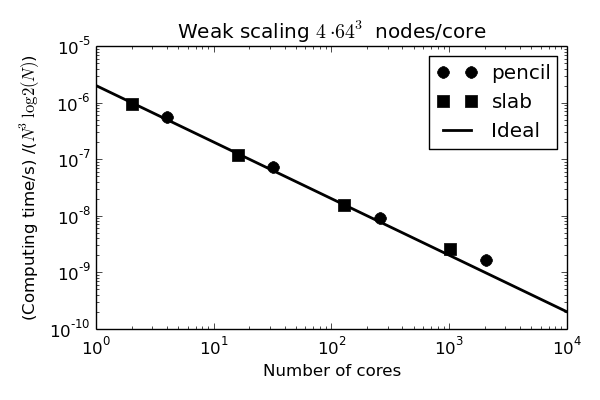
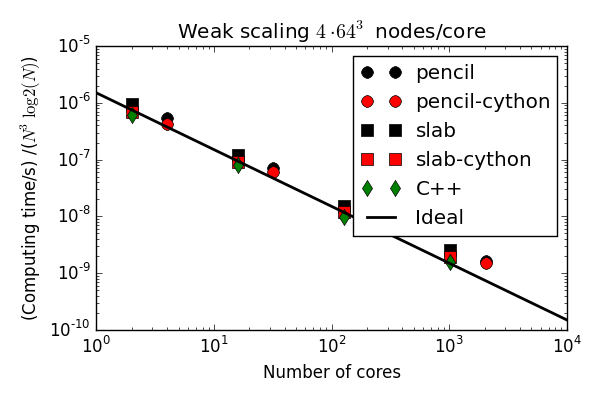
Preparing for submission

diff --git a/PythonDNSproject.tex b/PythonDNSproject.tex
@@ -40,6 +40,24 @@ numbers=none,
 aboveskip=1ex,
 belowskip=1ex,
 basicstyle=\ttfamily\footnotesize,
+breaklines=true,
+breakatwhitespace= true,
+xleftmargin=\framemargin,
+xrightmargin=\framemargin,
+aboveskip=1ex,
+belowskip=1ex,
+frame=trbl, %trbl
+numbers=none,
+%frameround=tttt,
+rulecolor=\color{black!40},
+%framexleftmargin=\framemargin,
+%framextopmargin=.1ex,
+%framexbottommargin=.1ex,
+%framexrightmargin=\framemargin,
+%framexleftmargin=1mm, framextopmargin=1mm, frame=shadowbox, rulesepcolor=\color{blue},#1
+%frame=tb,
+%backgroundcolor=\color{yellow!10}
+backgroundcolor=\color{white},
 }
 
 \lstdefinestyle{pythonstyle}{
@@ -142,7 +160,7 @@ float=!htpb]{#2}}
 \newcommand{\hpl}[1]{({\bf hpl comment:} \emph{#1})}
 \bibliographystyle{plain}
 
-\title{High performance Python simulations of turbulent flows}
+\title{High Performance Python for direct numerical simulations of turbulent flows}
 \author{Mikael Mortensen\thanks{Department of Mathematics, University of Oslo, and Center for Biomedical Computing, Simula Research Laboratory. Email: \texttt{mikael.mortensen@gmail.com}.} and Hans Petter Langtangen\thanks{Center for Biomedical Computing, Simula Research Laboratory, and Department of Informatics, University of Oslo. Email: \texttt{hpl@simula.no}.}}
 %\date{}							% Activate to display a given date or no date
 
@@ -156,9 +174,9 @@ available research codes and, due to the heavy number crunching implied,
 available codes are usually written in low-level
 languages such as C or Fortran.
 In this paper we describe a pure Python pseudo-spectral DNS code
-that nearly matches the performance of pure C for thousands of processors
+that nearly matches the performance of C++ for thousands of processors
 and billions of unknowns. We also describe an optimized version, using
-Cython, that is found to match the speed of C without ever needing to leave
+Cython, that is found to match the speed of C++ without ever needing to leave
 the confortable interactive Python environment. The solver is written from
 scratch in Python, both the mesh, the MPI domain decomposition, and the
 temporal integrators. The solver
@@ -166,7 +184,7 @@ has been verified and benchmarked on the Shaheen supercomputer at the
 KAUST supercomputing laboratory,
 and we are able to show very good scaling up to several thousand cores.
 
-A very important part of the implementation is the mesh decomposition (we have used both slab and pencil) and 3D parallel Fast Fourier Transforms (FFT). The mesh decomposition and FFT routines have been implemented in Python using serial FFT routines (either \inpyth{numpy} or \inpyth{pyfftw}), \inpyth{numpy} array manipulations and with MPI communications handled by \inpyth{mpi4py}. We show how we can write a 3D parallel FFT routine in Python for a slab mesh decomposition in 4 lines of compact Python code, for which the parallel performance on Shaheen is found to be slightly better than similar routines provided through the FFTW library. For a pencil mesh decomposition 7 lines of code is required to actually perform the transformation.
+A very important part of the implementation is the mesh decomposition (we implement both slab and pencil decompositions) and 3D parallel Fast Fourier Transforms (FFT). The mesh decomposition and FFT routines have been implemented in Python using serial FFT routines (either \inpyth{numpy} or \inpyth{pyfftw}), \inpyth{numpy} array manipulations and with MPI communications handled by \inpyth{mpi4py}. We show how we can execute a 3D parallel FFT in Python for a slab mesh decomposition using 4 lines of compact Python code, for which the parallel performance on Shaheen is found to be slightly better than similar routines provided through the FFTW library. For a pencil mesh decomposition 7 lines of code is required to execute a transformation.
 
 \section{Introduction}
 %\subsection{}
@@ -188,15 +206,15 @@ of freedom. Normally, this demands a need for developing tailored, hand-tuned
 codes in what we here call low-level languages: Fortran, C or C++ (despite
 the possibility for creating high-level abstractions in Fortran 90/2003 and
 C++, the extreme performance demands of DNS codes naturally leads to
-minimalistic use of classes and modules).. Few
+minimalistic use of classes and modules). Few
 DNS codes are openly available and easily accessible to the public and
 the common fluid mechanics researcher. Some exceptions are hit-3d
 (Fortran90) \cite{hit-3d}, Philofluid (Fortran) \cite{philofluid},
 Tarang (C++) \cite{tarang}, and Turbo (Fortran90)
-\cite{turbo}. However, the user interfaces to these codes are not sopthisticated and user-friendly,
+\cite{turbo}. However, the user interfaces to these codes are not sophisticated and user-friendly,
 and it is both challenging and time consuming for a user to
 modify or extend the codes to satisfy their own needs. This is usually
-the nature of codes in low-level languages.
+the nature of codes written in low-level languages.
 
 It is a clear trend in computational sciences over the last two decades
 that researchers tend to move from low-level languages to high-level languages
@@ -225,7 +243,7 @@ finite element framework FEniCS \cite{fenics} is written mainly in
 C++, but most application developers are writing FEniCS-based solvers
 directly in Python, never actually finding themselves in need of
 writing longer C++ code and firing up a compiler. For large scale
-applications the devloped Python solvers are usually equally fast as
+applications the developed Python solvers are usually equally fast as
 their C++ counterparts, because most of the computing time is usually
 spent within the low-level wrapped C++ functions that perform the
 costly linear algebra operations \cite{Mortensen2015}.
@@ -286,7 +304,7 @@ where the indices on $\mathcal{F}$ and $\mathcal{F}^{-1}$ within the square brac
 %\end{align}
 %Here $\imath=\sqrt{-1}$ is used to represent the imaginary unit.
 
-The spectral Galerkin  method involves taking the inner product of the Navier-Stokes equations with the complex conjugate of the basis functions, i.e., $e^{-\imath \bm{k} \cdot \bm{x}}$, which corresponds to performing a three-dimensional Fourier transform of the Navier-Stokes equations. If we also evaluate the analytical spatial derivatives in spectral space, we obtain a system of ordinary differential equation for $\hat{\bm{u}}_{\bm{k}}$, whereas the continuity equation reduces to an orthogonal inner product. All in all we obtain
+The spectral Galerkin method involves taking the inner product of the Navier-Stokes equations with the basis functions, $e^{\imath \bm{k} \cdot \bm{x}}$, which corresponds to performing a three-dimensional Fourier transform of the Navier-Stokes equations. If we also evaluate the analytical spatial derivatives in spectral space, we obtain a system of ordinary differential equation for $\hat{\bm{u}}_{\bm{k}}$, whereas the continuity equation reduces to an orthogonal inner product. All in all we obtain
 \begin{align}
  \frac{d\hat{\bm{u}}_{\bm{k}}}{d t} - \widehat{( \bm{u} \times \bm{\omega})}_{\bm{k}} &= - \nu |\bm{k}|^2  \hat{\bm{u}}_{\bm{k}} - \imath \bm{k} \hat{P}_{\bm{k}}, \label{eq:NSf} \\
  \imath \bm{k} \cdot \hat{\bm{u}}_{\bm{k}} &= 0.
@@ -459,7 +477,7 @@ while t <= T:
         U[i] = ifftn_mpi(U_hat[i], U[i])
 
 \end{python}
-Obviously, more advanced and accurate integrators may be easily added by modifying the final \inpyth{while} loop. See the Appendix [\ref{sec:appendix}] for a fourth order Runge Kutta implementation.
+Obviously, more advanced and accurate integrators may be easily added by modifying the final \inpyth{while} loop. See the Appendix for a fourth order Runge Kutta implementation.
 
 The \inpyth{dealias} matrix multiplying \inpyth{dU} in the above
 loop deserves a comment.
@@ -487,7 +505,7 @@ K = array(meshgrid(kx, ky[rank*Np:(rank+1)*Np], kz,
 \end{python}
 In general, using \inpyth{num_processes} CPUs, each CPU gets responsibility for \inpyth{Np = N/num_processes} two-dimensional slices and the physical mesh is simply decomposed along the first index. The wavenumber mesh, on the other hand, is split along the second index. The reason for this choice is that the $k_x$ direction is the last direction to be transformed by the three consecutive FFTs and for this operation the data structures will need to be aligned in planes normal to the $k_y$ direction. This becomes obvious if one considers the MPI decomposition as illustrated in Figure~\ref{fig:Slabdecomp} for the case of a physical mesh of size $8^3$ divided amongst 4 CPUs.
 
-The entire 3D parallel FFT may be implemented with preallocation of a work array to do MPI and 4 lines of Python code:
+The entire 3D parallel FFT may be implemented with preallocation of a work array to do MPI and 4 lines (the body of \inpyth{fftn_mpi/ifftn_mpi}) of Python code:
 
 \begin{python}
 # Preallocated work array for MPI
@@ -652,9 +670,10 @@ def fftn_mpi(u, fu):
 \end{python}
 
 \subsection{Optimization}
-The implementation discussed thus far is using no more than \texttt{numpy} and \texttt{mpi4py}, and possibly \texttt{pyfftw} for faster FFTs. The FFTs represent the major computational cost of the solver, but there is also significant cost in all the elementwise operations on the structured \texttt{numpy} arrays required to build the right hand side of the Navier-Stokes equations, see the \inpyth{ComputeRHS} function. The elementwise operations, like multiply and divide, are handled by \texttt{numpy}'s universal functions (ufuncs), which are fast because they are implemented in C. However, some of the ufuncs may be inefficient due to temporary arrays that need to be created, especially for multiple-operator expressions. The most glaring example for the current solver is the cross product (used in computing convection, see Eq. (\ref{eq:curl_convection})), which is computed most straightforward though \texttt{numpy} as
+\label{sec:optimization}
+The implementation discussed thus far is using no more than \texttt{numpy} and \texttt{mpi4py}, and possibly \texttt{pyfftw} for faster FFTs. The FFTs represent the major computational cost of the solver, but there is also significant cost in all the elementwise operations on the structured \texttt{numpy} arrays required to build the right hand side of the Navier-Stokes equations, see the \inpyth{ComputeRHS} function. The elementwise operations, like multiply and divide, are handled by \texttt{numpy}'s universal functions (ufuncs), that are fast because they are implemented in C. However, some of the ufuncs may be inefficient due to temporary arrays that need to be created, especially for multiple-operator expressions. The most glaring example for the current solver is the cross product (used in computing convection, see Eq. (\ref{eq:curl_convection})), which is computed most straightforward though \texttt{numpy} as
 \begin{python}
-def cross1(a, b, c):
+def cross(a, b, c):
     """c = a x b"""
     #c = numpy.cross(a, b, axis=0)   # Alternative numpy cross product
     c[0] = a[1]*b[2]-a[2]*b[1]
@@ -662,7 +681,7 @@ def cross1(a, b, c):
     c[2] = a[0]*b[1]-a[1]*b[0]
     return c
 \end{python}
-Note that we have commented out the use of \texttt{numpy}'s \inpyth{cross} function, which is implemented under the hood using ufuncs and runs at approximately the same computational speed as the alternative shown. The term \inpyth{a[1]*b[2]-a[2]*b[1]} requires two elementwise multiplications and one elementwise subtraction. This is implemented by \texttt{numpy} using three separate ufuncs (two \inpyth{multiply}, one \inpyth{subtract}), each with temporary arrays allocated. For the three items in the \inpyth{c} vector, this means that 9 ufuncs are called and the loop over all $N^3$ indices in the mesh is performed 9 times, which, needless to say, is very inefficient.
+Note that we have commented out the use of \texttt{numpy}'s \inpyth{cross} function, which is implemented under the hood using ufuncs and runs at approximately the same computational speed as the alternative shown. The term \inpyth{a[1]*b[2]-a[2]*b[1]} requires two elementwise multiplications and one elementwise subtraction. This is implemented by \texttt{numpy} using three separate ufuncs (two \inpyth{multiply}, one \inpyth{subtract}), each with temporary arrays allocated. For the three items in the \inpyth{c} vector, this means that 9 ufuncs are called and the loop over all $N^3$ indices in the mesh is performed 9 times, which, needless to say, is very inefficient even though it is vectorized.
 
 For straightforward comparison, the Python solver with slab decomposition has been used as prototype for a
 \href{https://github.com/mikaem/spectralDNS/blob/master/cpp/spectralDNS.cpp}{pure C++ implementation}\footnote{\texttt{https://github.com/mikaem/spectralDNS/blob/master/cpp/spectralDNS.cpp}}. The
@@ -676,7 +695,7 @@ from numba import jit, int64, int32, uint8
 from numba import float64 as float, complex128 as complex
 
 @jit(float[:,:,:,:](float[:,:,:,:], float[:,:,:,:], float[:,:,:,:]))
-def cross1(a, b, c):
+def cross(a, b, c):
     for i in xrange(a.shape[1]):
         for j in xrange(a.shape[2]):
             for k in xrange(a.shape[3]):
@@ -693,7 +712,7 @@ def cross1(a, b, c):
 \end{python}
 The \texttt{numba} cross product may now be used directly in place of the pure Python version with no further modifications.
 
-Cython has gained much momentum in recent years and is usually the obvious choice for high performance computing. Using Cython, the cross product should be implemented like \inpyth{numba}, through explicit for loops, which are translated to efficient C code that can be highly optimized by the compiler. A module called \inpyth{cython_module.pyx} may be created and compiled using Python's standard installation utilities (\href{http://docs.cython.org /src/reference/compilation.html}{distutils}\footnote{\texttt{http://docs.cython.org /src/reference/compilation.html}}).
+Cython has gained much momentum in recent years and is usually the obvious choice for high performance computing. Using Cython, the cross product should be implemented like for \inpyth{numba}, through explicit for loops which are translated to efficient C code to be highly optimized by the compiler. A module called \inpyth{cython_module.pyx} may be created and compiled using Python's standard installation utilities (\href{http://docs.cython.org /src/reference/compilation.html}{distutils}\footnote{\texttt{http://docs.cython.org /src/reference/compilation.html}}):
 
 \begin{python}
 cython_module.pyx:
@@ -703,7 +722,7 @@ cimport numpy as np
 
 ctypedef np.float64_t real_t
 
-def cross1(np.ndarray[real_t, ndim=4] a,
+def cross(np.ndarray[real_t, ndim=4] a,
            np.ndarray[real_t, ndim=4] b,
            np.ndarray[real_t, ndim=4] c):
     cdef unsigned int i, j, k
@@ -722,7 +741,7 @@ def cross1(np.ndarray[real_t, ndim=4] a,
                 c[2,i,j,k] = a0*b1 - a1*b0
 
 \end{python}
-Cython generated modules may be imported into Python and the \inpyth{cross1} function from Cython may be used directly in place of the pure Python version.
+Cython generated modules may be imported into Python and the \inpyth{cross} function from Cython may be used directly in place of the pure Python version.
 
 The Cython code for the cross product runs at about the same speed as \inpyth{numba} and approximately 3 times faster than pure \texttt{numpy} for a mesh of size $128^3$. When Cython is used to compute all elementwise operations that generate the right hand side of the Navier-Stokes equations, the Taylor Green test case runs at (0.0090, 0.080, 0.82) seconds per time step.\footnote{Best of 10 runs} In other words, with a few quick Cython wrappers we have a Python solver that is comparable in speed to its low-level counterpart in C++. And this solver is scripted and operated in a comfortable interactive environment where postprocessing and plotting may be performed from a commandline shell.
 
@@ -739,7 +758,7 @@ A better solution is provided through the Scalable Python implementation \cite{s
 
 \subsection{Verification}
 \label{sec:verification}
-To verify the implementation of our Python based DNS solver we run the Taylor Green test case for a Reynolds number of 1600. This is a well known test case used, e.g., by the annual Workshop on High-Order CFD Methods, that provides temporal evolution of reference data\footnote{https://www.grc.nasa.gov/wp-content/uploads/sites/22/ C3.3$\_$datafiles.zip} for kinetic energy, energy dissipation and vorticity integrated over the computational domain. The Taylor Green test case at Re=1600 starts out as laminar with only one single length scale, and then through a series of complex flow patterns a fully developed, decaying, turbulent flow is obtained. The Taylor Green vortex is initialized as
+To verify the implementation of our Python based DNS solver we run the Taylor Green test case for a Reynolds number of 1600. This is a well known test case used, e.g., by the annual Workshop on High-Order CFD Methods, which provides temporal evolution of reference data\footnote{https://www.grc.nasa.gov/wp-content/uploads/sites/22/ C3.3$\_$datafiles.zip} for kinetic energy, energy dissipation and vorticity integrated over the computational domain. The Taylor Green test case at Re=1600 starts out as laminar with only one single length scale, and then through a series of complex flow patterns a fully developed, decaying, turbulent flow is obtained. The Taylor Green vortex is initialized as
 \begin{python}
 nu = 1./1600
 dt = 0.001
@@ -749,12 +768,15 @@ U[2] = 0
 for i in range(3):
     U_hat[i] = fftn_mpi(U[i], U_hat[i])
 \end{python}
-where the same code is used for both the slab and the pencil decomposition. The Reynolds number is fixed at 1600 by setting the viscosity coefficient to 1./1600 and the time step is fixed at 0.001. We use a real mesh of size $N=512$, since that matches the reference data. A resolution of $512^3$ is reported by by Bratchet \cite{brachet1991direct} to represent a fully resolved DNS of this flow.
+where the same code is used for both the slab and the pencil decomposition. The Reynolds number is fixed at 1600 by setting the viscosity coefficient to 1/1600 and the time step is fixed at 0.001. We use a real mesh of size $N=512$, since that matches the reference data. A resolution of $512^3$ is reported by by Bratchet \cite{brachet1991direct} to represent a fully resolved DNS of this flow.
 
 The non-optimized code is run on Shaheen using the pencil decomposition and 2048 cores. The entire simulation is set for 20 seconds real time, during which the flow undergoes transition, decays and finally fades out. The simulation takes 12 hours alltogether ($12\cdot2048$ CPU hours) and neither the kinetic energy nor the vorticity stray more than 0.01 \% from the reference solutions, even after 20,000 time steps.
 
 \subsection{Parallel scaling}
-The only MPI communication required by the solver can be found in the 3D
+In this section we will investigate parallel scaling and performance of the solver described in previous sections. We compare our Python solvers to the C++ solver described briefly in Sec \ref{sec:optimization} and note that the C++ solver is using the same compiled FFTW library as the Python code. However, it is also important to note that the Python code only makes use of the serial versions of the FFTW routines and performs the MPI communications itself through
+\inpyth{mpi4py}, whereas the C++ code uses the built in MPI communication routines that come with the FFTW library.
+
+The only MPI communication required by the current solver can be found in the 3D
 FFT routines, or when global results, like the total kinetic energy, are
 computed. Scaling will be efficient as long as the cost for MPI
 communication is smaller than all the other elementwise operations required
@@ -762,7 +784,7 @@ to set up the right hand side of the explicit ODE given by Eq.
 (\ref{eq:NSfinal}). This is not a trivial task, considering that a pseudo-spectral solver demands that every process needs to send and receive data
 from all the other processes - at least for the slab decomposition.
 
-It is customary for pseudospectral solvers to assume that the main computational cost is due to Fourier transforms, and as such the CPU time should ideally scale like
+It is customary for pseudo-spectral solvers to assume that the main computational cost is due to Fourier transforms, and as such the CPU time should ideally scale like
 
 \begin{equation}
  \frac{N^3 \log_2 N}{M},
@@ -770,63 +792,113 @@ It is customary for pseudospectral solvers to assume that the main computational
 where $M$ is the number of CPUs. In other words, strong scaling implies, as usual, CPU time per time step proportional to $1/M$, whereas weak scaling, where $N^3/M$ is kept constant, should ideally show CPU times proportional to $\log_2 N$. A more thorough analysis of scalability factors for a 3D FFT using the pencil domain decomposition has been given by Ayala and Wang \cite{ayala2013}.
 
 
-
 \subsubsection{Weak scaling}
-To verify weak scaling we continue to use the Taylor Green test case and keep the ratio of mesh size to number of processors ($N^3/M$) constant, which ideally should lead to CPU times proportional to $\log_2 N$. The solver used in this section is not optimized in any way beyond \texttt{numpy/mpi4py/pyfftw}.
-Both slab and pencil decompositions are tested using four meshes of size $N^3$, where $N=(2^7, 2^8, 2^9, 2^{10}) =(128, 256, 512, 1024)$ and single precision arithmetics (which is also customary for scaling tests of DNS solvers). For these meshes the slab decomposition uses $M=(2, 16, 128, 1024)$ number of CPUs and the pencil uses twice as many $M=(4, 32, 256, 2048)$ with $P1=(2, 4, 16, 32)$.
+Since MPI communications are primarily required by the FFTs, we first run a weak scaling test of the pure foreward and inverse FFTs before proceeding to the complete solver. To this end we keep the ratio of mesh size to number of processors ($N^3/M$) constant, which ideally should lead to CPU times proportional to $\log_2 N$. Both slab and pencil decompositions are tested using four meshes of size $N^3$, where $N=(2^7, 2^8, 2^9, 2^{10}) =(128, 256, 512, 1024)$ and single precision arithmetics (which is also customary for scaling tests of DNS solvers). For these meshes the slab decomposition uses $M=(2, 16, 128, 1024)$ number of CPUs and the pencil uses twice as many $M=(4, 32, 256, 2048)$ with $P1=(2, 4, 16, 32)$.
 Note that for $N=1024$ the maximum number of CPUs is reached for the slab decomposition, whereas the pencil
-decomposition may still use many more. The real computing time per time step is measured and the results
-are scaled by $N^3 \log_2N$ and plotted in Figure \ref{fig:Weak_scaling} alongside the C++ implementation. Figure \ref{fig:weak_scaling_shaheen} and \ref{fig:weak_scaling_shaheen_opt} shows, respectively, the weak scaling results for the non-optimized pure Python solver and the solver optimized through Cython. From Figure \ref{fig:weak_scaling_shaheen} it is evident that both slab and pencil versions of the Python solver show excellent scaling,
-and only start to trail slightly off the ideal curve for the largest mesh sizes. The C++ solver is seen to be about $10-20 \%$ faster than the pure
-Python solver for the current range, and evidently the difference diminishes with increasing number of cores. In other words, the MPI implementation of 3D FFT for the pure Python solver scales better than the 3D FFT routines provided by FFTW.  Note that the pencil computations use twice as many cores for the same mesh size as the slab computations. As such the two methods would fall on the same line in
-Figure.~\ref{fig:weak_scaling_shaheen} if they were equally efficient. The slab decomposition is thus seen to be more efficient than pencil, which is generally in agreement with previous studies (see, e.g., \cite{pekurovsky2012}).
+decomposition may still use many more. The performance of the FFTs is compared to a C++ code using the same FFTW library with plans corresponding to the Python solver. A simplified setup that also shows how the code is executed is shown below:
 
-Figure \ref{fig:weak_scaling_shaheen_opt} shows the performance of the Python solvers optimized with Cython. Now there is apparently very little separating the C++ and the Python solvers, and the Python solver actually performs slightly better. Both the slab and pencil optimized implementations are seen to be approximately $20 \% $ faster than their pure Python counterparts.
+\begin{lstlisting}
+  typedef float precision;
+  int N = pow(static_cast<int>(2), 9);
+  ptrdiff_t alloc_local, local_n0, local_0_start, local_n1, local_1_start
+  fftwf_plan rfftn, irfftn;
+  
+  alloc_local = fftw_mpi_local_size_3d_transposed(N, N, N/2+1, 
+                         MPI::COMM_WORLD, &local_n0, &local_0_start,
+                         &local_n1, &local_1_start);
+                         
+  vector<precision> U(2*alloc_local);
+  vector<complex<precision> > U_hat(alloc_local);
+  
+  rfftn = fftwf_mpi_plan_dft_r2c_3d(N, N, N, U.data(), 
+                   reinterpret_cast<fftwf_complex*>(U_hat.data()), 
+                   MPI::COMM_WORLD, FFTW_MPI_TRANSPOSED_OUT);
+                   
+  irfftn = fftwf_mpi_plan_dft_c2r_3d(N, N, N, 
+                   reinterpret_cast<fftwf_complex*>(U_hat.data()),  
+                   U.data(), MPI::COMM_WORLD, FFTW_MPI_TRANSPOSED_IN);  
+                   
+  // Execute forward and inverse transforms
+  fftwf_mpi_execute_dft_r2c( rfftn, U.data(), 
+                reinterpret_cast<fftwf_complex*>(U_hat.data()));     
+  fftwf_mpi_execute_dft_c2r(irfftn, 
+                reinterpret_cast<fftwf_complex*>(U_hat.data()), U.data());
+                
+  // Scale the inverse FFT  
+  for (int k=0; k<U.size(); k++)
+     U[k] /= tot;
+
+\end{lstlisting}
+The FFTW library is using a slab mesh decomposition.
+
+%The slab decomposition is seen to be more efficient than pencil, which is generally in agreement with previous studies (see, e.g., \cite{pekurovsky2012}). We see also that the C++ version is faster than the corresponding Python routine (slab) by approximately 10 \% for the lowest number of processors (64). However, the strong scaling of the Python 4-liner slab (see \inpyth{fftn_mpi}) is better and the Python version is even faster by the time we reach the highest number of allowed processors for this case (512). The pencil transform achieves good, but not perfect, speedup all the way up to 4096 processors. The results for the pencil transforms depend on the parameter P1, set to determine how the two first indices of the computational mesh are distributed. We have used $P1 = (8, 16, 16, 32, 32, 64, 64)$ and not optimized further.
+
 
 \begin{figure}
-\subfigure[]{
-\includegraphics[scale=0.8]{figs/weak_scaling_shaheen_numpy_noopt.png}
+\centering
+\includegraphics[scale=0.6]{figs/weak_scaling_fft_1024.png}
+\caption{Weak scaling of forward and inverse FFTs. The Python results are for pure \texttt{numpy}, \texttt{mpi4py}, \texttt{pyfftw} and C++ is using slab decomposition with MPI communication performed through the FFTW library.}
+\label{fig:weak_FFT_scaling}
+\end{figure}
+
+The results are assembled as the fastest of 10 forward and inverse FFTs (only execution time, not the setup), and the results
+are scaled by $N^3 \log_2N$ and plotted in Figure \ref{fig:weak_FFT_scaling}. Both slab and pencil versions of the Python 3D FFTs show excellent scaling,
+and only start to trail off the ideal curve for the largest mesh size. The C++ solver can be seen to be about $10 \%$ faster than Python (slab) for the smallest number of processors (64), but evidently the difference diminishes with increasing number of cores. In other words, the Python 4-liners (see \inpyth{fftn_mpi/ifftn_mpi} in Appendix) that embody the complete execution of the 3D FFT with MPI scales better than the 3D FFT routines with MPI provided by FFTW.  
+
+From Figure \ref{fig:weak_FFT_scaling} we also observe that the slab decomposition is more efficient than pencil, which is generally in agreement with previous studies (see, e.g., \cite{pekurovsky2012}). Note that the pencil computations use twice as many cores for the same mesh size as the slab computations. As such the two methods would fall on the same line in Figure.~\ref{fig:weak_FFT_scaling} if they were equally efficient. 
+
+Turning now to the complete solver, we run the Taylor Green test case for 100 time steps on the same mesh as used for the weak scaling of the FFTs. Figure \ref{fig:Weak_scaling} shows the computing times for one such time step (the fastest) for both the pure Python solver \ref{fig:weak_scaling_shaheen} and the version optimized with Cython \ref{fig:weak_scaling_shaheen_opt}.
+The figures clearly show how the Cython optimization leads to a solver that performs as well as C++ for the entire range of processors. Both the slab and pencil optimized implementations are seen to be approximately $20 \% $ faster than their pure Python counterparts, but there is generally no difference in scaling performance. Like for the pure FFT test, the scaling performance of the Python solver is actually slightly better  than C++, and this leads to the optimized Python solver actually being the fastest for 1024 processors.
+
+\begin{figure}
+\subfigure[Pure Python solver (\texttt{numpy}, \texttt{mpi4py}, \texttt{pyfftw})]{
+\includegraphics[scale=0.48]{figs/weak_scaling_shaheen_numpy_noopt.png}
 \label{fig:weak_scaling_shaheen}
 }
-\subfigure[]{
-\includegraphics[scale=0.8]{figs/weak_scaling_shaheen_numpy_opt.png}
+\subfigure[Python solver optimized with Cython]{
+\includegraphics[scale=0.48]{figs/weak_scaling_shaheen_numpy_opt.png}
 \label{fig:weak_scaling_shaheen_opt}
 }
-\caption{Weak scaling of DNS solver. The slab (squares) decomposition used $4 \cdot 64^3$ nodes per core, whereas the pencil decomposition (dots) used $2 \cdot 64^3 $. The C++ solver uses slab decomposition with MPI communication performed through the FFTW library. The Python solver in \subref{fig:weak_scaling_shaheen} is not optimized, whereas the solver in \subref{fig:weak_scaling_shaheen_opt} has been optimized through Cython.}
+\caption{Weak scaling of DNS solver. The slab decompositions are using $4 \cdot 64^3$ nodes per core, whereas the pencil decomposition uses $2 \cdot 64^3 $. The C++ solver uses slab decomposition with MPI communication performed through the FFTW library. The C++ results are the same in \subref{fig:weak_scaling_shaheen} and \subref{fig:weak_scaling_shaheen_opt}.}
 \label{fig:Weak_scaling}
 \end{figure}
 
 \subsubsection{Strong scaling}
 \label{sec:strong_scaling}
+
+\begin{figure}
+\centering
+\includegraphics[scale=0.6]{figs/strong_scaling_fft_512.png}
+\caption{Strong scaling of forward and inverse FFTs. The Python results are for pure \texttt{numpy}, \texttt{mpi4py}, \texttt{pyfftw} and C++ is using slab decomposition with MPI communication performed through the FFTW library.}
+\label{fig:strong_FFT_scaling}
+\end{figure}
+
 Strong scaling over a wide range of processors is usually more challenging
 to prove than weak, in our case partly because the efficiency of the FFT routines
 depends on the length of the datastructures and how well they fit into
-memory. Nevertheless, we have performed strong scaling tests of our pure Python and optimized
-Python/Cython code for the Taylor Green test case with a computational box of size $512^3$. In Figure
-\ref{fig:Strong_scaling} we plot for both solvers the computing time per time step, for both the pencil and slab decompositions. The number of
-cores is varied over the entire possible range from 64 to 512 for the slab
-decomposition (lower limit due to memory), and from 64 to 4096 for the
-pencil decomposition. The scaling is, quite frankly, excellent for both the optimized and non-optimized versions, and good speedup is observed
-throughout the entire range. Interestingly, the optimized version of the code is seen
+memory. Nevertheless, we have performed strong scaling tests of the FFTs and the complete solvers using a computational box of size $512^3$. 
+
+Isolating first the FFTs we plot in Figure
+\ref{fig:strong_FFT_scaling} the computing time of one forward and inverse FFT, for both the pencil and slab decompositions and, as for the weak scaling, compare it to a C++ version that is using FFTW. The number of
+cores is varied over the range from 64 to 512 for the slab
+decomposition, and from 64 to 4096 for the
+pencil decomposition. The scaling is very good for both slab and pencil, and good speedup is observed
+throughout the entire range. Like for the weak scaling, the Python slab version is seen also here to scale better than the C++ version for the highest number of processors, and even though C++ is approximately 10 \% faster for 64 processors, the Python version is actually faster for 512. The pencil transforms are again seen to be slower than slab, but we achieve good, although not perfect, speedup all the way up to 4096 processors. Note that the results for the pencil transforms depend on the parameter P1, fixed to determine how the two first indices of the computational mesh are distributed. Here we have used $P1 = (8, 16, 16, 32, 32, 64, 64)$ and not optimized any further.
+
+Figure \ref{fig:Strong_scaling} shows the performance of the complete solvers. The outcome is similar to that found in the weak scaling test and the optimized Python/Cython code is seen
 to more than match the performance of the C++ solver for this particular
-case. In this regard it is interesting to note that the C++ and the Python code both use the same compiled FFTW library. However, the Python code only makes use of the serial versions of the FFTW
-routines and performs the MPI communications itself through
-\inpyth{mpi4py}, whereas the C++ code uses the built in MPI communication routines of FFTW. From Figure~\ref{fig:strong_scaling_shaheen} it is evident
-that the optimized Python solver performes
-gradually better than the C++ solver for a larger number of cores. This enhanced performance
-means that our Python implementation of the parallel 3D FFT routine, for this
-particular case at least, is scaling better than the parallel implementation provided through the FFTW library. Note that Cython can do nothing to enhance the performance of the 3D \inpyth{fftn_mpi} routine, and the superior scaling of the Python slab solver is as such evidenced also in Figure \ref{fig:strong_scaling_shaheen}.
+case. Good scaling is observed for the pencil solver all the way up to 4096 processors.
 
 \begin{figure}
-\subfigure[]{
-\includegraphics[scale=0.8]{figs/strong_scaling_shaheen_noopt_512.png}
+\subfigure[Pure Python solver (\texttt{numpy}, \texttt{mpi4py}, \texttt{pyfftw})]{
+\includegraphics[scale=0.48]{figs/strong_scaling_shaheen_noopt_512.png}
 \label{fig:strong_scaling_shaheen}
 }
-\subfigure[]{
-\includegraphics[scale=0.8]{figs/strong_scaling_shaheen_opt_512.png}
+\subfigure[Python solver optimized with Cython]{
+\includegraphics[scale=0.48]{figs/strong_scaling_shaheen_opt_512.png}
 \label{fig:strong_scaling_shaheen_opt}
 }
-\caption{Strong scaling of the  DNS solver. The Python solver in \subref{fig:strong_scaling_shaheen} is not optimized, whereas the solver in \subref{fig:strong_scaling_shaheen_opt} has been optimized through Cython.}
+\caption{Strong scaling of the  DNS solver. The C++ solver uses slab decomposition with MPI communication performed through the FFTW library. The C++ results are the same in \subref{fig:strong_scaling_shaheen} and \subref{fig:strong_scaling_shaheen_opt}.}
 \label{fig:Strong_scaling}
 \end{figure}
 
@@ -851,7 +923,7 @@ from mpi4py import MPI
 nu = 0.000625
 T = 0.1
 dt = 0.01
-N = 2**6
+N = 2**7
 comm = MPI.COMM_WORLD
 num_processes = comm.Get_size()
 rank = comm.Get_rank()
@@ -911,10 +983,10 @@ def ComputeRHS(dU, rk):
             U[i] = ifftn_mpi(U_hat[i], U[i])
     curl[:] = Curl(U_hat, curl)
     dU = Cross(U, curl, dU)
-    dU[:] *= dealias
+    dU *= dealias
     P_hat[:] = sum(dU*K_over_K2, 0, out=P_hat)
-    dU[:] -= P_hat*K
-    dU[:] -= nu*K2*U_hat
+    dU -= P_hat*K
+    dU -= nu*K2*U_hat
     return dU
 
 U[0] = sin(X[0])*cos(X[1])*cos(X[2])
